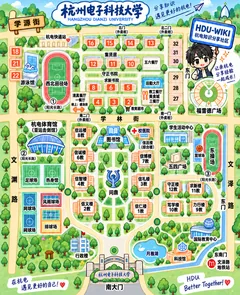
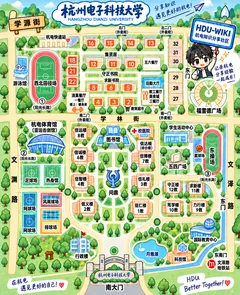
feat(welcome): 下沙校区地图更新为 v5 新版手绘图 + 路牌缩略图同步

diff --git a/app/welcome/CampusMap.tsx b/app/welcome/CampusMap.tsx
@@ -19,7 +19,7 @@ export default function CampusMap({ campus, onClose }: { campus: "xiasha" | "sha
       {!loaded && <p className="pw-atlas-loading"><i />手绘地图展开中…</p>}
       <Image
         className={(zoom ? "is-zoomed" : "") + (loaded ? "" : " is-loading")}
-        src={campus === "xiasha" ? "/welcome/xiasha-map-v4.png" : "/welcome/shaoxing-map-v2.png"}
+        src={campus === "xiasha" ? "/welcome/xiasha-map-v5.png" : "/welcome/shaoxing-map-v2.png"}
         alt={`杭州电子科技大学${campus === "xiasha" ? "下沙" : "绍兴"}校区手绘地图，标有教学楼、宿舍、食堂、图书馆及校门`}
         width={campus === "xiasha" ? 1132 : 1536}
         height={campus === "xiasha" ? 1389 : 1024}
